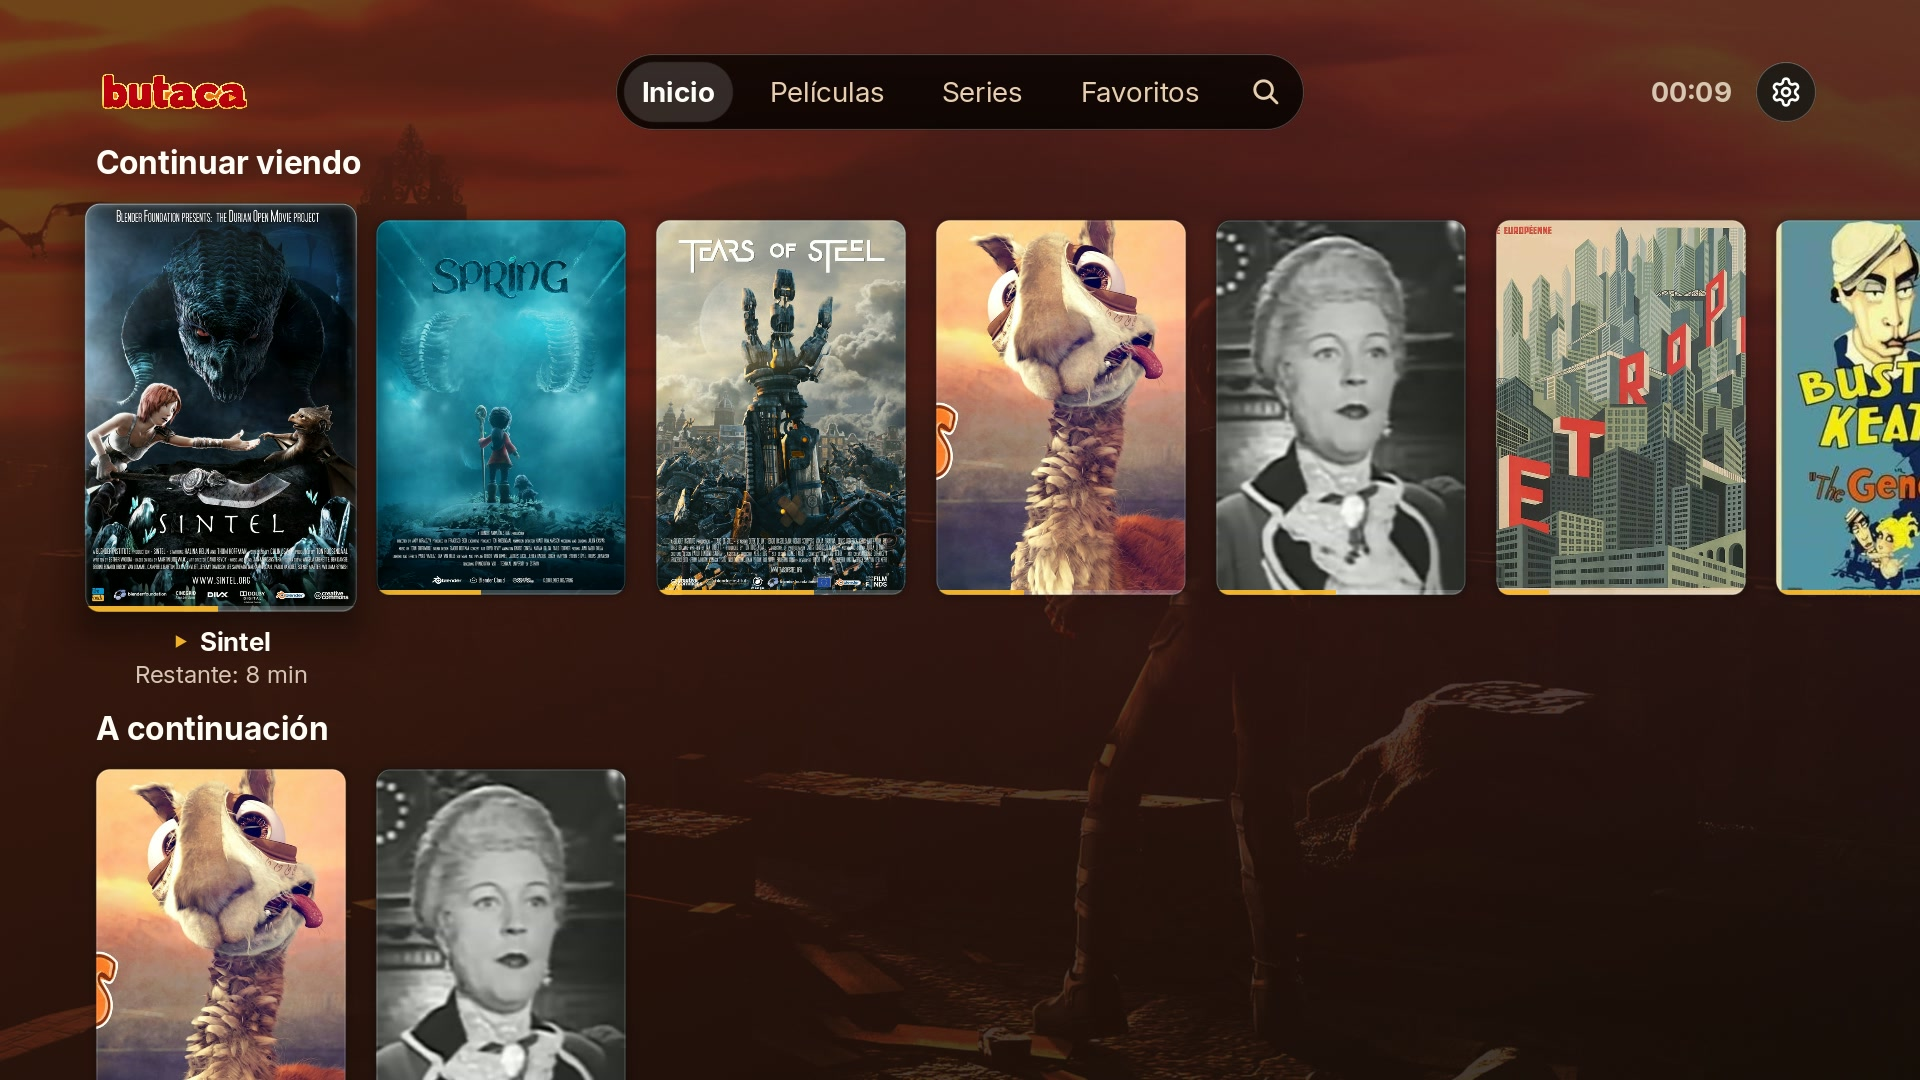
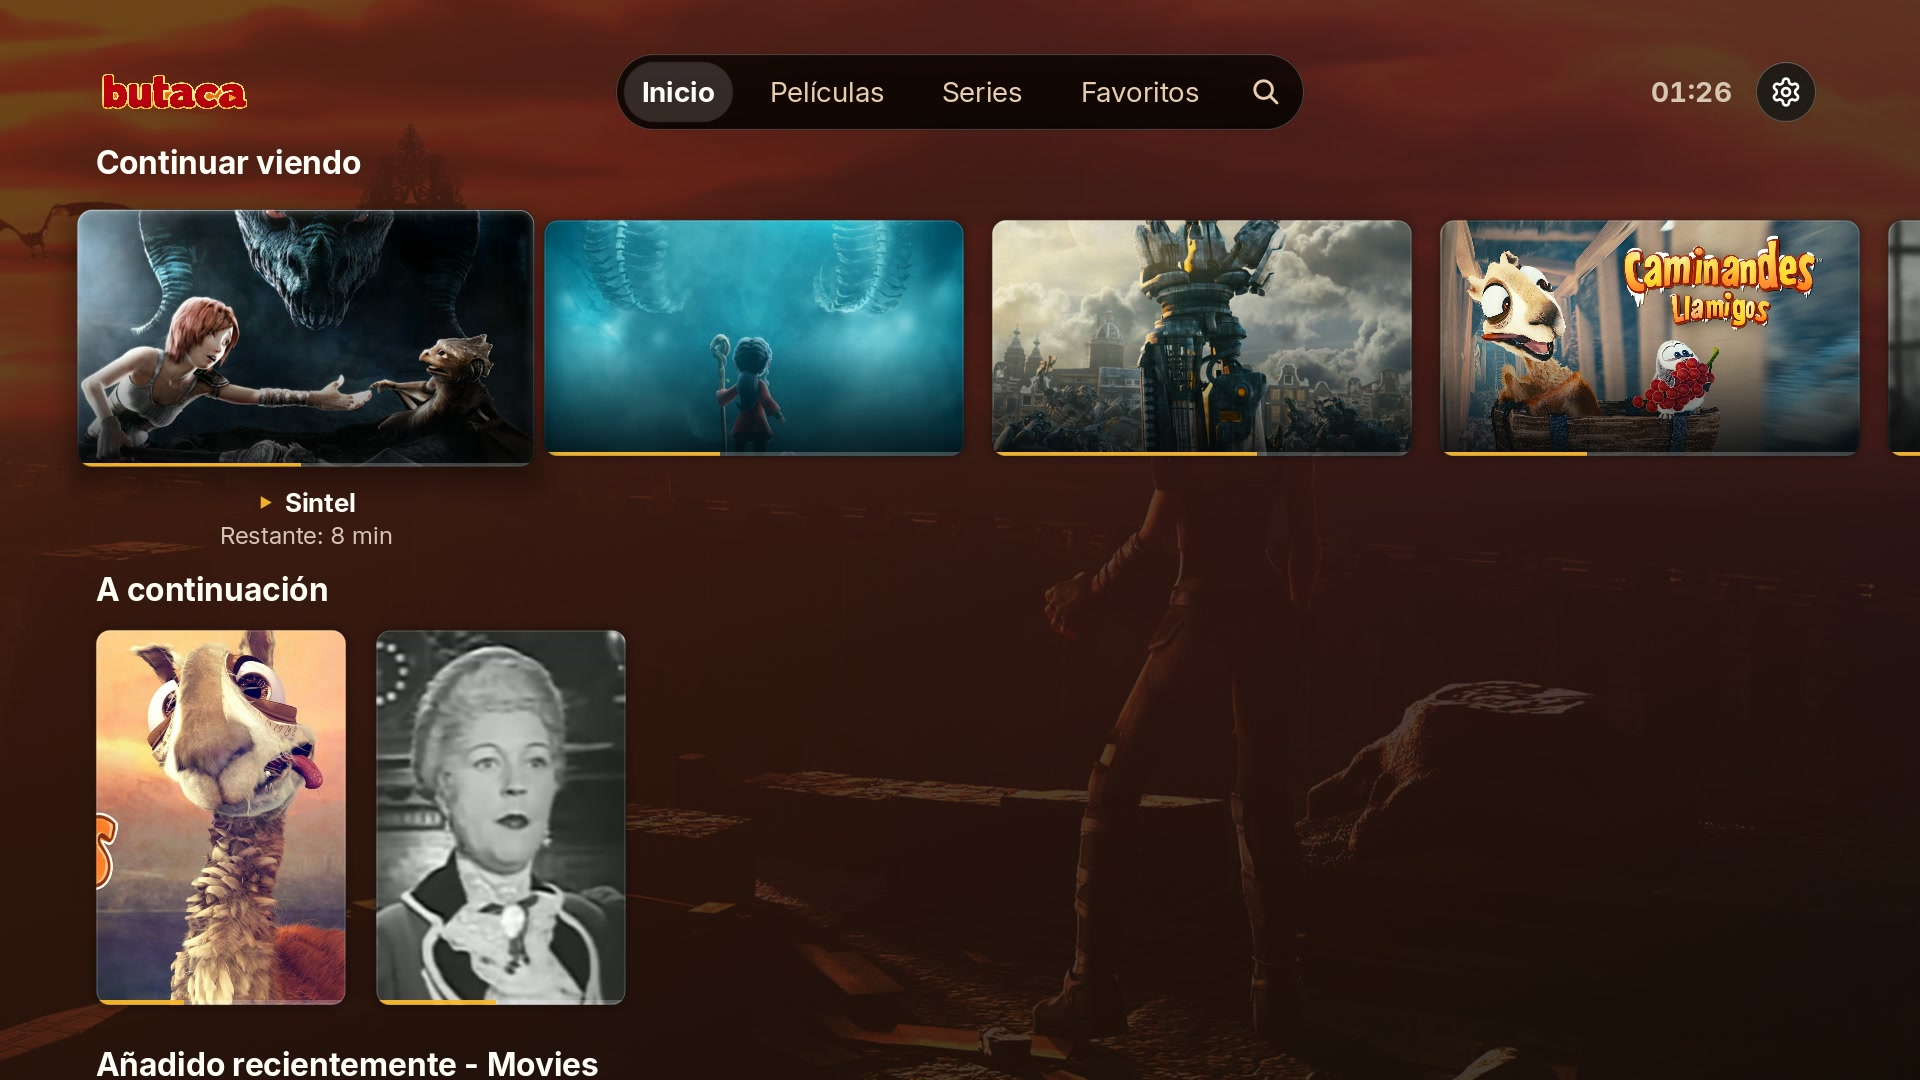
feat(home): draw Continue Watching as the mockup's wide 16:9 cards (#293)

diff --git a/rust-modules/src/screens/home/mod.rs b/rust-modules/src/screens/home/mod.rs
@@ -671,6 +671,48 @@ impl HomeScreen {
         self.hub(view, row)?.items.get(col)
     }
 
+    /// **Continue Watching is the mockup's one LANDSCAPE row**: 16:9 stills with the resume bar
+    /// and the watched mark, not posters. Every other hub keeps the shared poster row, so the
+    /// page still reads as one shelf stack.
+    fn row_landscape(&self, row: usize) -> bool {
+        self.rows
+            .get(row)
+            .is_some_and(|r| r.identity == HomeHubIdentity::ContinueWatching)
+    }
+    fn row_style(&self, row: usize) -> &'static RowStyle {
+        if self.row_landscape(row) { &RowStyle::EPISODE } else { &RowStyle::HOME }
+    }
+    fn row_card(&self, row: usize) -> (f32, f32) {
+        let sty = self.row_style(row);
+        (sty.w, sty.h)
+    }
+    /// One row's vertical stride: the shared pitch, shortened by whatever the row's art gives up.
+    fn row_pitch(&self, row: usize) -> f32 {
+        card_row::ROW_PITCH_FIXED - (CARD_H - self.row_style(row).h)
+    }
+    fn row_card_x(&self, row: usize, col: usize, scroll: f32) -> f32 {
+        let sty = self.row_style(row);
+        MARGIN_X + col as f32 * (sty.w + sty.gap) - scroll
+    }
+    /// How far the rows BELOW `row` have drifted from the uniform pitch.
+    fn shelf_offset(&self, row: usize) -> f32 {
+        (0..row)
+            .map(|r| self.row_pitch(r) - card_row::ROW_PITCH_FIXED)
+            .sum()
+    }
+    fn shelf_top_settled(&self, row: usize, focus_row: usize) -> f32 {
+        self.shelf_top_banded(row, Some(focus_row))
+    }
+    fn shelf_top_banded(&self, row: usize, band_row: Option<usize>) -> f32 {
+        card_row::settled_top(row, band_row, card_row::ROW_PITCH_FIXED) + self.shelf_offset(row)
+    }
+    fn grid_max_scroll(&self) -> f32 {
+        let n = self.rows.len().max(1);
+        let h = card_row::settled_top(n, Some(n - 1), card_row::ROW_PITCH_FIXED)
+            + self.shelf_offset(n);
+        (h - (SCR_H - CONTENT_Y) + 60.0).max(0.0)
+    }
+
     fn env(&self, dt: f32) -> Env {
         let mut env = Env::inert();
         env.dt = dt;
@@ -683,8 +725,9 @@ impl HomeScreen {
         let top = PEEK_Y + (GRID_TOP_Y - PEEK_Y) * self.snap.pos;
         let mut flow = 0.0;
         for row in 0..MAX_HUBS {
+            let pitch = self.row_pitch(row);
             self.grid.shelves[row].base_y = top + flow - self.grid.scroll_y.pos * self.snap.pos;
-            flow += card_row::ROW_PITCH_FIXED + self.grid.shelves[row].under_band();
+            flow += pitch + self.grid.shelves[row].under_band();
         }
     }
 
@@ -702,12 +745,12 @@ impl HomeScreen {
         }
         let revealed = focused.map(|(row, _)| (row, Some(row)));
         if let Some((row, band_row)) = revealed.filter(|(r, _)| *r < self.rows.len()) {
-            let (lo, hi) = row_reveal_band(shelf_top_banded(row, band_row));
+            let (lo, hi) = row_reveal_band(self.shelf_top_banded(row, band_row), self.row_card(row).1);
             self.grid.scroll_target = card_row::reveal(
                 self.grid.scroll_y.pos,
                 lo,
                 hi,
-                grid_max_scroll(self.rows.len()),
+                self.grid_max_scroll(),
             );
         }
         self.grid
@@ -1249,7 +1292,7 @@ impl HomeScreen {
             // label band. Culling by the card rect alone left a heading already on screen undrawn
             // until the first card pixel crossed the bottom edge, so it popped in mid-scroll.
             let top = heading_y(row_y, self.grid.shelves[row].lift());
-            let bottom = row_y + CARD_H + self.grid.shelves[row].under_band();
+            let bottom = row_y + self.row_card(row).1 + self.grid.shelves[row].under_band();
             if !on_axis(top, bottom - top, SCR_H, 0.0) {
                 continue;
             }
@@ -1268,19 +1311,17 @@ impl HomeScreen {
                 if focused == Some((row, col)) && env.sp > 0.5 {
                     continue;
                 }
-                let x = card_x(col, self.grid.eff_scroll(row, env.sp));
-                if !on_axis(x, CARD_W, SCR_W, GLOW_PAD) {
+                let x = self.row_card_x(row, col, self.grid.eff_scroll(row, env.sp));
+                if !on_axis(x, self.row_card(row).0, SCR_W, GLOW_PAD) {
                     continue;
                 }
                 let (rect, scale) = self.drawn_card_geometry(row, col, 1.0);
-                card_row::draw_tile(
-                    p,
-                    Art::Poster(Some(item)),
-                    rect,
-                    scale,
-                    &RowStyle::HOME,
-                    item.resume_frac(),
-                );
+                let art = if self.row_landscape(row) {
+                    Art::Still(Some(item))
+                } else {
+                    Art::Poster(Some(item))
+                };
+                card_row::draw_tile(p, art, rect, scale, self.row_style(row), item.resume_frac());
             }
         }
         self.draw_focused_cell(view, env, p, press_scale, focused, measure);
@@ -1316,12 +1357,13 @@ impl HomeScreen {
         // The grid draws at `scroll_x * snap` ([`Grid::eff_scroll`]), so the lag it still owes does too.
         let lag = self.grid.shelves[row].settle_lag(count, col, &RowStyle::HOME) * self.snap.pos;
         let label = label.revealed(self.grid.shelves[row].band_reveal()).settling(lag);
+        let art = if cw { Art::Still(Some(item)) } else { Art::Poster(Some(item)) };
         card_row::draw_focused(
             p,
-            Art::Poster(Some(item)),
+            art,
             rect,
             scale,
-            &RowStyle::HOME,
+            self.row_style(row),
             item.resume_frac(),
             &label,
             measure,
@@ -1332,11 +1374,12 @@ impl HomeScreen {
     fn drawn_card_geometry(&self, row: usize, col: usize, press_scale: f32) -> (Rect, f32) {
         let scale = self.grid.shelves[row].scale(col)
             * if press_scale > 0.0 { press_scale } else { 1.0 };
+        let (w, h) = self.row_card(row);
         let rect = Rect::new(
-            card_x(col, self.grid.eff_scroll(row, self.snap.pos)),
+            self.row_card_x(row, col, self.grid.eff_scroll(row, self.snap.pos)),
             self.grid.shelves[row].base_y + CARD_DY,
-            CARD_W,
-            CARD_H,
+            w,
+            h,
         )
         .scaled(scale);
         (rect, scale)
@@ -1612,7 +1655,7 @@ impl<H: HomeLike> Focusable<H> for HomeScreen {
         });
         let band_row = self.band_row(cx.focus.current, 0);
         for (row, projection) in self.rows.iter().enumerate() {
-            let top = GRID_TOP_Y + shelf_top_banded(row, band_row) - self.grid.scroll_target;
+            let top = GRID_TOP_Y + self.shelf_top_banded(row, band_row) - self.grid.scroll_target;
             out.push(GroupSpec {
                 id: projection.group,
                 kind: GroupKind::Row { wrap: false },
@@ -1628,7 +1671,7 @@ impl<H: HomeLike> Focusable<H> for HomeScreen {
                     MARGIN_X,
                     top + CARD_DY,
                     SCR_W - 2.0 * MARGIN_X,
-                    CARD_H + card_row::UNDER_LABEL_H,
+                    self.row_style(row).h + card_row::UNDER_LABEL_H,
                 ),
                 len: projection.elems.len(),
                 elem: ElemKind::Card,
@@ -1728,14 +1771,15 @@ impl<H: HomeLike> Focusable<H> for HomeScreen {
                             .focused_grid(cx.focus.current)
                             .map(|(r, _)| r)
                             .unwrap_or(row);
-                        GRID_TOP_Y + shelf_top_settled(row, focus_row) - self.grid.scroll_target
+                        GRID_TOP_Y + self.shelf_top_settled(row, focus_row) - self.grid.scroll_target
                     }
                 };
+                let (cw, ch) = self.row_card(row);
                 let base = Rect::new(
-                    card_x(col, self.grid.eff_scroll(row, snap)),
+                    self.row_card_x(row, col, self.grid.eff_scroll(row, snap)),
                     y + CARD_DY,
-                    CARD_W,
-                    CARD_H,
+                    cw,
+                    ch,
                 );
                 let scale = match at {
                     At::Drawn => shelf.scale(col),
@@ -1824,11 +1868,12 @@ impl<H: HomeLike> Focusable<H> for HomeScreen {
                 elem: HERO_PLAY_ELEM,
             };
         };
+        let sty = self.row_style(row_index);
         let col = card_row::column_near_x(
             from.rect.cx(),
             MARGIN_X,
-            CARD_W + GAP,
-            CARD_W,
+            sty.w + sty.gap,
+            sty.w,
             self.grid.shelves[row_index].scroll_x(),
             row.elems.len(),
             from.index.unwrap_or(0) as usize,
@@ -1963,14 +2008,15 @@ impl<H: HomeLike> Machine<H> for HomeScreen {
                     if let Some(Located::Item(row, col)) = to_loc {
                         // The saved viewport is a preference, not an assertion about today's
                         // catalog order. Minimally reveal the reconciled item before first draw.
-                        let shelf = &mut self.grid.shelves[row];
                         let count = self.rows[row].elems.len();
+                        let sty = *self.row_style(row);
+                        let shelf = &mut self.grid.shelves[row];
                         let scroll = card_row::scroll_into_view(shelf.scroll_x(), col, count,
-                            CARD_W, GAP, SCR_W - 2.0 * MARGIN_X);
-                        shelf.restore_scroll(scroll, count, &RowStyle::HOME);
-                        let (lo, hi) = row_reveal_band(shelf_top_settled(row, row));
+                            sty.w, sty.gap, SCR_W - 2.0 * MARGIN_X);
+                        shelf.restore_scroll(scroll, count, &sty);
+                        let (lo, hi) = row_reveal_band(self.shelf_top_settled(row, row), sty.h);
                         self.grid.scroll_target = card_row::reveal(self.grid.scroll_y.pos,
-                            lo, hi, grid_max_scroll(self.rows.len()));
+                            lo, hi, self.grid_max_scroll());
                         self.grid.scroll_y.jump(self.grid.scroll_target);
                     }
                     self.layout_grid();
@@ -2253,6 +2299,7 @@ fn hero_pill_w(measure: &dyn Measure, label: &std::ffi::CStr) -> f32 {
         + crate::ui::widgets::BTN_PILL_AIR
 }
 
+#[cfg(test)]
 fn card_x(col: usize, scroll: f32) -> f32 {
     MARGIN_X + col as f32 * (CARD_W + GAP) - scroll
 }
@@ -2266,22 +2313,21 @@ fn col_at(x: f32, scroll: f32, count: usize) -> Option<usize> {
 fn heading_y(row_y: f32, lift: f32) -> f32 {
     row_y - TITLE_DY - lift
 }
-fn row_reveal_band(top: f32) -> (f32, f32) {
-    let lo = top + GRID_TOP_Y + CARD_DY + CARD_H + 96.0 - (SCR_H - MARGIN_Y);
-    (lo, top)
+/// The uniform-pitch reference the tests compare against; the screen itself goes through
+/// [`HomeScreen::shelf_top_settled`], which adds each landscape row's own drift.
+#[cfg(test)]
+fn shelf_top_settled(row: usize, focus_row: usize) -> f32 {
+    card_row::settled_top(row, Some(focus_row), card_row::ROW_PITCH_FIXED)
 }
+#[cfg(test)]
 fn grid_max_scroll(rows: usize) -> f32 {
     let n = rows.max(1);
     let h = card_row::settled_top(n, Some(n - 1), card_row::ROW_PITCH_FIXED);
     (h - (SCR_H - CONTENT_Y) + 60.0).max(0.0)
 }
-fn shelf_top_settled(row: usize, focus_row: usize) -> f32 {
-    shelf_top_banded(row, Some(focus_row))
-}
-/// [`shelf_top_settled`] with the open label band named explicitly: `None` while a linked heading
-/// holds focus, which opens no row's band.
-fn shelf_top_banded(row: usize, band_row: Option<usize>) -> f32 {
-    card_row::settled_top(row, band_row, card_row::ROW_PITCH_FIXED)
+fn row_reveal_band(top: f32, h: f32) -> (f32, f32) {
+    let lo = top + GRID_TOP_Y + CARD_DY + h + 96.0 - (SCR_H - MARGIN_Y);
+    (lo, top)
 }
 
 fn wash_corners(hero: Option<&CatalogMovie>, grid: [[f32; 4]; 4], snap: f32) -> [[f32; 4]; 4] {

diff --git a/rust-modules/src/screens/home/tests.rs b/rust-modules/src/screens/home/tests.rs
@@ -498,11 +498,11 @@ fn drawn_card_geometry_includes_press_but_its_rest_anchor_does_not() {
         let mut context = cx(snapshot.view(), Some(key));
         context.press.scale = press;
         let placed = Focusable::<TestHost>::place(&s, &key.elem, &context, At::Drawn).unwrap();
-        assert!((placed.rect.w - CARD_W * s.grid.shelves[0].scale(0) * press).abs() < 0.01);
-        assert!((placed.rest_rect.w - CARD_W * RowStyle::HOME.focus_scale).abs() < 0.01);
+        assert!((placed.rect.w - s.row_card(0).0 * s.grid.shelves[0].scale(0) * press).abs() < 0.01);
+        assert!((placed.rest_rect.w - s.row_card(0).0 * s.row_style(0).focus_scale).abs() < 0.01);
         context.press = PressRead::default();
         let opener = s.focused_rect(Some(key), &context, At::Drawn).unwrap();
-        assert!((opener.w - CARD_W * s.grid.shelves[0].scale(0)).abs() < 0.01);
+        assert!((opener.w - s.row_card(0).0 * s.grid.shelves[0].scale(0)).abs() < 0.01);
     }
 }
 
@@ -865,7 +865,7 @@ fn heading_top(row: usize, focus_row: usize, scroll: f32) -> f32 {
     )
 }
 fn settled_scroll(rows: usize, focus_row: usize, current: f32) -> f32 {
-    let (lo, hi) = row_reveal_band(shelf_top_settled(focus_row, focus_row));
+    let (lo, hi) = row_reveal_band(shelf_top_settled(focus_row, focus_row), CARD_H);
     card_row::reveal(current, lo, hi, grid_max_scroll(rows))
 }
 fn from_below(rows: usize) -> f32 {
@@ -915,9 +915,9 @@ fn every_settled_row_keeps_its_focused_label_block_above_the_overscan_bottom() {
 
 #[test]
 fn the_grids_resting_top_is_the_highest_a_shelf_may_settle() {
-    assert_eq!(row_reveal_band(0.0).1, 0.0);
+    assert_eq!(row_reveal_band(0.0, CARD_H).1, 0.0);
     assert_eq!(
-        row_reveal_band(shelf_top_settled(3, 3)).1,
+        row_reveal_band(shelf_top_settled(3, 3), CARD_H).1,
         shelf_top_settled(3, 3)
     );
     assert!(heading_top(0, 0, 0.0) - top_band_bottom() >= theme::space::XS);
@@ -2104,4 +2104,38 @@ fn a_shelf_heading_on_screen_is_drawn_while_its_cards_are_still_below_the_edge()
     // …and a shelf whose heading has not reached the edge yet is still culled.
     s.grid.shelves[0].base_y = SCR_H + TITLE_DY + 4.0;
     assert!(!drawn(&s), "a shelf entirely below the screen draws nothing");
+}
+
+/// The mockup's wide row, as a property of the row and not of the painter: Continue Watching is
+/// the one hub that trades posters for 16:9 stills, and its stride is shorter because its art is.
+#[test]
+fn continue_watching_is_the_one_landscape_row() {
+    let _guard = crate::testlock::serial();
+    let mut state = crate::catalog::CatalogState::default();
+    let adapter = std::sync::Arc::new(crate::catalog::CatalogAdapter::default());
+    crate::catalog::seed_for_test(&mut state, &adapter, 3, crate::catalog::HubState::Ready);
+    let snapshot = crate::catalog::hubs_snapshot(&state);
+    let s = screen(snapshot.view());
+    let cw = s
+        .rows
+        .iter()
+        .position(|r| r.identity == HomeHubIdentity::ContinueWatching)
+        .expect("the demo library seeds Continue Watching");
+    assert!(s.row_landscape(cw));
+    assert_eq!(s.row_card(cw), (RowStyle::EPISODE.w, RowStyle::EPISODE.h));
+    assert!(
+        s.row_pitch(cw) < card_row::ROW_PITCH_FIXED,
+        "a landscape row is shorter than a poster row"
+    );
+    let poster = s
+        .rows
+        .iter()
+        .position(|r| r.identity != HomeHubIdentity::ContinueWatching)
+        .unwrap_or(usize::MAX);
+    assert!(!s.row_landscape(poster));
+    assert_eq!(s.row_card(poster), (CARD_W, CARD_H));
+    assert!(
+        s.shelf_offset(cw + 1) < 0.0,
+        "the rows below a landscape row start higher"
+    );
 }
